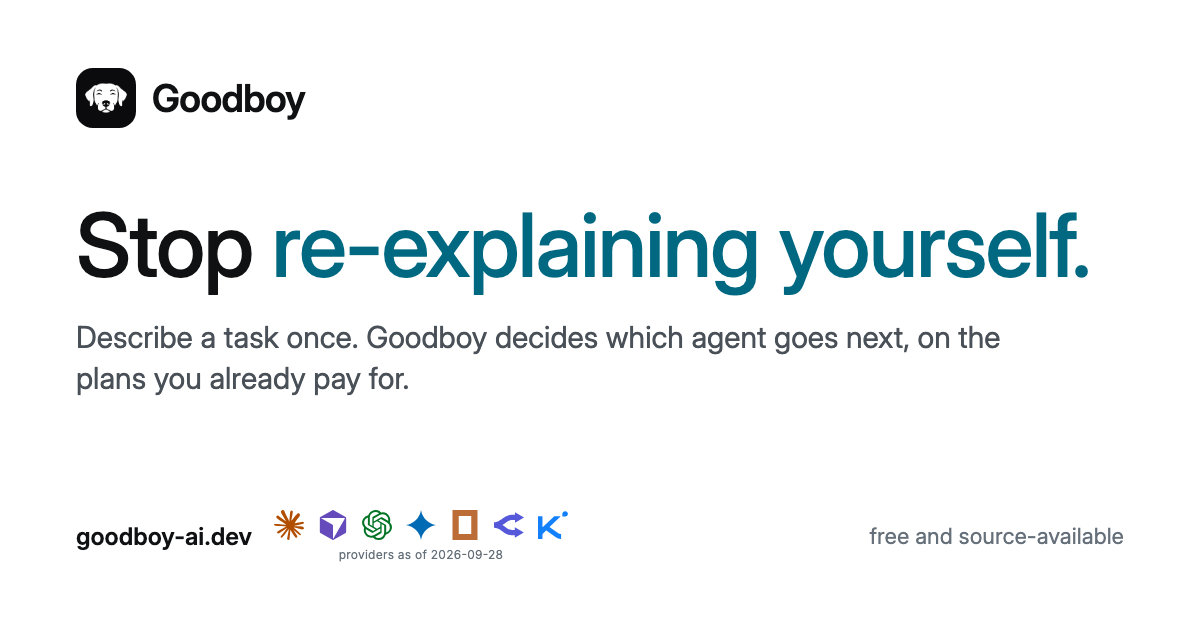
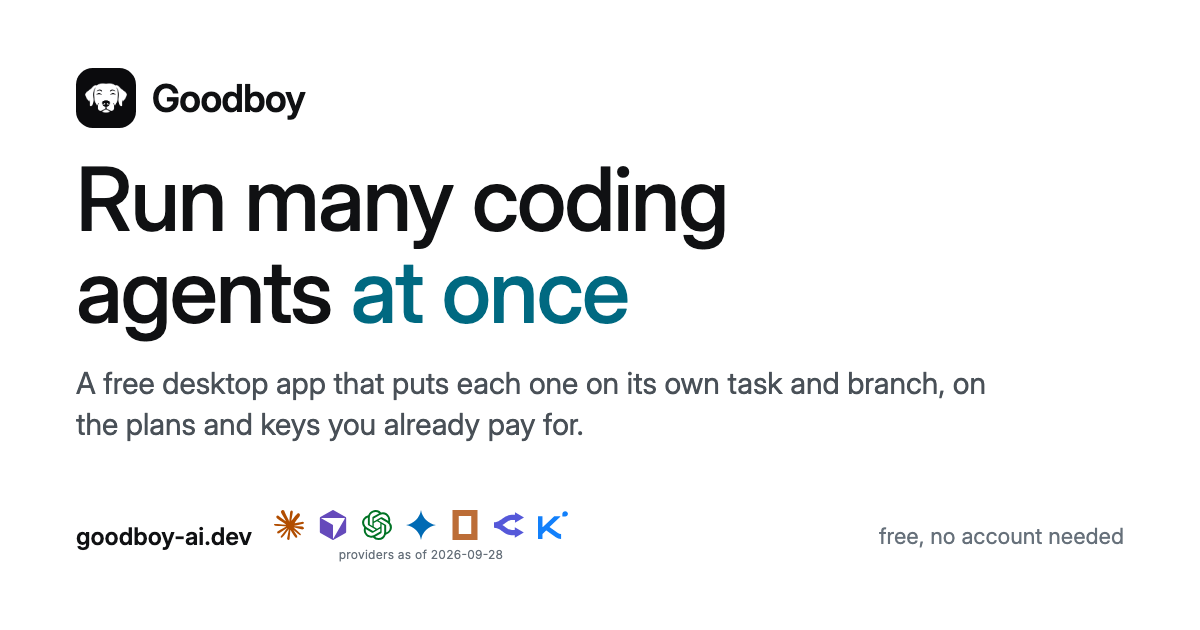
docs(repo): align the og image and docs with the new landing

Changed region(s): [[0.0617, 0.2413, 0.925, 0.6333], [0.0617, 0.6635, 0.4933, 0.6937], [0.7092, 0.8444, 0.9558, 0.8746]]

diff --git a/website/README.md b/website/README.md
@@ -18,47 +18,42 @@ deployed by Vercel from `website/vercel.json`.
 
 ## Pages
 
-- `/`, the landing page, from `website/index.html` and `website/src/App.tsx`.
+- `/`, the landing page, from `website/index.html` and `website/src/App.tsx`:
+  the hero with the Works with row, three sections (jobs and models, what
+  needs you, Stop re-explaining yourself), Also in Goodboy, Install and the
+  footer. Its title, meta description and Open Graph text follow the hero,
+  and so does the OG image in `website/scripts/build-brand-assets.mjs`.
 - `/features`, every feature group with the release picker and the supported
   tools, from `website/features.html` and `website/src/pages/features/`. Vite
   builds both as inputs, `vercel.json` serves them without `.html`, and the
   dev and preview servers rewrite `/features` the same way.
 
-## FAQ and structured data
+## Structured data
 
-The questions in `website/src/data/faqs.ts` are mirrored by hand into the
-`FAQPage` JSON-LD block in `website/index.html`. Change both in the same
-commit: nothing checks that they agree, and search engines read the JSON-LD,
-not the section.
+`website/index.html` carries one `SoftwareApplication` JSON-LD block. Its
+description matches the meta description; change both in the same commit. The
+page has no FAQ section, so it carries no `FAQPage` block: search engines
+expect every answer in it to be visible on the page.
 
-## Figures
+## Product pictures
 
-Product figures are real app screenshots from the mock scenes (see
-[docs/mock-screenshots.md](../docs/mock-screenshots.md), Landing crops),
-captured at a device scale factor of 4 or more, in both app themes. They live
-in `website/public/img/` as WebP, each at three widths and never upscaled.
-The widths are exactly 1, 2 and 3 times the size the image is drawn at, so a
-screen at 1x, 2x or 3x shows the file pixel for pixel and the browser never
-resamples it:
+The product pictures are HTML, not screenshots, so they stay sharp at any
+density and re-lay out on a phone instead of being cropped. Each one lives in
+`website/src/components/mocks/` (`Board`, `RunList`, `Activity`, `Handoff`),
+takes its words and numbers from `website/src/data/harborline.ts`, and sits
+on a `Stage`. Their rules:
 
-- `<id>-<width>.webp` in the dark theme and `<id>-<width>-light.webp` in the
-  light one.
-- A frame is drawn 1144 CSS pixels wide at 1440, inside its stage, so its
-  files are 1144, 2288 and 3432 wide. A 1024 pixel app window lands at 1.12
-  times its size; the board keeps a 1250 pixel window so its four columns fit,
-  and draws at 0.92.
-- A frame has a `<id>-phone` twin, a 4:5 cut of 288 by 360 app pixels that a
-  390 phone draws 366 wide, at 1.27 times the app, instead of the whole
-  window shrunk. Its files are 732, 1098 and 1464 wide.
-- A fragment is one component, drawn at its `displayWidth`, at least 1.18
-  times its size in the app, with files at 1, 2 and 3 times that width. App
-  text never draws below its size in the app.
+- Rows are grids with `minmax(0, 1fr)` for the title. A title never wraps; it
+  ends in an ellipsis. Below 520 px of container width each row turns into two
+  clean lines, never a word per line. The breakpoints are container queries,
+  so they hold inside any stage.
+- On a phone every visible text is 13 px or larger; on a desktop 12 px is the
+  floor, for chips and eyebrows only.
+- The window is a hairline box on the page background, with no shadow.
 
-`website/src/figures.ts` holds each figure's id, pixel size, display width and
-alt text. `Picture` loads only the active theme and lets the browser pick the
-width through `srcset`, and `pnpm check:page` fails when any image draws below
-twice its displayed size. When a scene changes, reshoot every width and both
-themes of its figures in one pass.
+The site keeps no raster product images. A raster image added later is
+exported at exactly 1, 2 and 3 times the width it is drawn at, and checked at
+100%.
 
 ## Theme
 
@@ -101,65 +96,96 @@ loads twice.
 
 ## Page kit
 
-The page is built from five formats in `website/src/components/`, each with
-its own CSS file:
+- `Beat`, a section with a muted lead-in (optional, always smaller than the
+  heading: 20 against 44 px, 17 against 30 on a phone), an h2, one body
+  paragraph, `.textLink` links to `FEATURES.md` anchors, optional fine print,
+  then one picture on a `Stage`. `isBand` puts it on `--band` with a hairline
+  above and below; the first and third sections are banded.
+- `Stage`, the colored stage behind a picture: the flat 160 degree gradient,
+  radius 28, 48 px around the picture (32 below 1100 px, 20 below 860, 12 on a
+  phone). No sheen, glow or shadow.
+- Also in Goodboy, one row per feature that the page does not tell, each a
+  link to its `FEATURES.md` section, in two columns (one below 760 px). A new
+  feature gets at most a row here; `FEATURES.md` explains it.
+- Install, with the Homebrew command, the downloads and three facts. It takes
+  the place of a FAQ, a support block and a closer.
 
-- `Chapter`, a section with a `Statement` head, then its blocks 96 px apart
-  (64 on a phone). `isBand` puts it on `--band` with a hairline above and
-  below; How it works, Workflows, Questions and the closer are banded, the
-  chapters between them are not.
-- `Statement`, an eyebrow, a heading and a lead of 20 words or fewer. The
-  hero and the closer use it too. No h1, h2 or h3 ends with a period.
-- `Frame`, one full product view on a stage: 64 px of stage around the view
-  (40 below 1100 px), radius 28, the view capped at 600 px (640 in the hero)
-  and faded out over 140 px. Below 860 px the stage runs edge to edge with 12
-  px around the view, and a phone shows a 4:5 crop of its own. `isCanvas`
-  fades the view's top and bottom into the stage and adds a soft neutral
-  shadow above and below it: the one shadow on the page, used only for the
-  workflow step graph and marked `data-shadow-exception` for the check.
-- `Fragment`, a split of text beside one or two components on a smaller
-  stage (radius 20), the component bleeding off its right and bottom edge
-  where the screen continues. It stacks below 900 px.
-- `Grid`, two or three cells, each a stage with a component bleeding off it,
-  then a title and one line. No box around the cells.
+No h1, h2 or h3 ends with a period.
 
-Motion: the hero rises in on load. Below it, every frame, fragment, grid
-image and frame note fades and rises 14 px as it scrolls into view
-(`useReveal`, which marks `[data-reveal]` nodes shown), and the cost bars grow
-from zero when their pair appears. The provider marks in the Works with row are in their
-brand colours (Claude orange, OpenRouter slate, the Gemini gradient from its
-2025 mark, Codex the OpenAI green, Cursor its orange, OpenCode and Moonshot
-their own accent blues, each hex sourced and recorded in
-`brandIcons.source.json`), with the names in tier 3. They scroll as a marquee
-on a phone and sit still on wider screens. `prefers-reduced-motion` turns all
-of it off.
+## Phones
 
-`Picture` serves every image as a `srcset` of its three widths, so a browser
-downloads only what its screen needs.
+A touch device is told by its pointer, not by its width:
+`@media (hover: none) and (pointer: coarse)`, as the site did before 0.1.75. A
+narrow desktop window keeps its downloads, a tablet with a trackpad reports a
+fine pointer and sees them too. `.onlyFine` hides an element on a touch device
+and `.onlyCoarse` shows it only there, both in `website/src/styles.css`, so
+the right buttons show on the first paint without JavaScript.
+
+- A touch device sees no download button, no Homebrew command and no Download
+  in the nav. The hero and Install show a "Star on GitHub" button instead, a
+  static link with no live count, next to a line that says to open the page on
+  a computer.
+- Every download link and the Homebrew block carry `data-download`, and the
+  star button `data-star`, so `check-page` can find them.
+- The footer stacks on a phone: the brand on its 40 px dark tile, then the link
+  groups in two columns, each link a 44 px row at 16 px.
+
+## Motion
+
+- Below the hero, every lead-in, heading, body, picture, row and fact fades
+  and rises 12 px over 450 ms as it scrolls into view, 60 ms apart within a
+  block (`useReveal`, which marks `[data-reveal]` nodes shown). Content stays
+  visible until the observer is armed.
+- The hero copy rises in on load; the hero picture is there on the first
+  paint.
+- Each picture plays one calm change once, when 40% of it is in view
+  (`useAlive`): a task moves to Needs you, a run finishes step by step while
+  its total counts up, an agent stops to ask, a turn moves from Claude to Codex
+  with the same brief. Transitions run 200 to 450 ms and move 12 px at most.
+  Nothing loops, scales, glows or blurs.
+- The provider marks in the Works with row are in their brand colours (Claude
+  orange, OpenRouter slate, the Gemini gradient from its 2025 mark, Codex the
+  OpenAI green, Cursor its orange, OpenCode and Moonshot their own accent
+  blues, each hex sourced and recorded in `brandIcons.source.json`), with the
+  names in tier 3. They scroll as a marquee on a phone and sit still on wider
+  screens.
+- `prefers-reduced-motion` turns all of it off: every picture shows its final
+  state and nothing fades.
 
 ## Check the page
 
 `pnpm check:page [url...]` drives headless Chrome over a running page (default
 `http://localhost:1499/`) at 1440, 1024, 768, 660 and 390 pixels wide, in
-both themes, at twice the pixel density. It fails on horizontal overflow, an
-image drawn below 2x, a frame, fragment or grid with a shadow (outside
-`data-shadow-exception`), a page taller
-than 13,500 px at 1440 or 14,000 on a phone, an em dash or a middot triplet in
-visible text, a heading that ends with a period, a section that runs into the
-next one or whose content spills below it, Inter not loaded, a hero frame that
-starts below the first screen at 1440, and a consent card over the h1, and an
-eyebrow outside the one register: a feature
-eyebrow (`kind="group"`, the default) must be a `FEATURES.md` group name
-verbatim, an audience eyebrow a `README.md` section, and the few page eyebrows
-(hero, Questions, Install, All features) are listed in the script. The heading
-rule itself lives in [docs/tone-of-voice.md](../docs/tone-of-voice.md). `--shots <dir>` also saves every heading, and
-`--verify-icons` compares the provider mark paths with their pinned
-simple-icons files over the network; the fill is free, since the marks
-carry brand colours. It also fails a `.textLink` (a "learn more" or "How X
-works" link), a nav link or a footer Docs-column link that points anywhere in
-the repo's docs other than `FEATURES.md`, or whose anchor is not a heading in
-the current `FEATURES.md`; the GitHub repo, releases, changelog, security and
-legal links are unaffected. Tag Manager is blocked during the run.
+both themes, at twice the pixel density, with reduced motion on so every
+picture shows its final state. The 390 run emulates touch, so it gets a coarse
+pointer. It fails on:
+
+- horizontal overflow, an image drawn below 2x, or a shadow on a stage or
+  anything inside it;
+- a home page taller than 5,500 px at 1440 or 7,500 on a phone;
+- an em dash or a middot triplet in visible text, or a heading that ends with
+  a period;
+- a section that runs into the next one or whose content spills below it;
+- Inter not loaded, a hero stage that starts below the first screen at 1440,
+  or a consent card over the h1;
+- on the touch run, a visible download link or Homebrew block, no Star on
+  GitHub button, or any visible text under 13 px; on the other runs, a visible
+  star button or no download link;
+- a lead-in that is not smaller than its heading;
+- an eyebrow outside the one register: a feature eyebrow (`kind="group"`, the
+  default) must be a `FEATURES.md` group name verbatim, an audience eyebrow a
+  `README.md` section, and the few page eyebrows (hero, Install, All
+  features) are listed in the script;
+- a `.textLink`, a nav link or an Also in Goodboy row that points anywhere in
+  the repo's docs other than `FEATURES.md`, or whose anchor is not a heading
+  in the current `FEATURES.md`. The GitHub repo, releases, changelog, security
+  and legal links are unaffected.
+
+The heading rule itself lives in
+[docs/tone-of-voice.md](../docs/tone-of-voice.md). `--shots <dir>` also saves
+every heading, and `--verify-icons` compares the provider mark paths with
+their pinned simple-icons files over the network; the fill is free, since the
+marks carry brand colours. Tag Manager is blocked during the run.
 
 ## One invented world
 
@@ -172,5 +198,7 @@ HBL-412 "Stop retried webhooks posting a second credit" on branch
 `notify-relay` #57, while `ledger-core` is only read; $3.47 spent so far; the
 people Dana R., Kenji W., Marta L. and Omar T. A repo the story only reads has
 no branch or pull request in any figure, and any number in the copy matches the
-figure next to it. Nothing on the page names a real person, customer or
+figure next to it. The site's pictures take their words and numbers from
+`website/src/data/harborline.ts`; the run total, $3.07 against $9.80 on one
+heavy model, is labelled an example run. Nothing on the page names a real person, customer or
 repository. When the canon changes, it changes everywhere in one pass.

diff --git a/docs/mock-screenshots.md b/docs/mock-screenshots.md
@@ -214,52 +214,10 @@ branch `hl/fix-duplicate-credit`, payments-api #318 and notify-relay #57, with
 ledger-core only read), and `scenes/brand/canon.ts` holds the names and numbers
 every picture shares. Add `&brand=1` to skip onboarding and hide the toasts a
 browser tab raises. The README and `FEATURES.md` images live in `docs/readme/`
-as dark and light `.webp` pairs, and the website's in `website/public/img/`. To
-crop a short surface, use a `--window-size` height shorter than 900. The layout
+as dark and light `.webp` pairs. The website draws its product pictures in
+HTML instead (see [website/README.md](../website/README.md)). To crop a short
+surface, use a `--window-size` height shorter than 900. The layout
 keeps its own proportions and the footer stays pinned.
-
-## Landing crops
-
-The website shows three kinds of picture, and each one is cut a different
-way. Every one exists in both themes, and each file is exported at the widths
-its entry in `website/src/figures.ts` lists, as `<id>-<width>.webp` for dark
-and `<id>-<width>-light.webp` for light, so `<picture>` can pick one from
-`srcset`. A frame uses `FRAME_WIDTHS`, a phone crop `PHONE_WIDTHS`, and a
-fragment one, two and three times its recorded display width.
-
-- **A frame** is the whole window. Capture it at `1024x640`, the app's minimum
-  width, at device scale factor 4. That gives 4096x2560, which exports down to
-  every width. A frame never uses a window narrower than 1024: below it the
-  sidebar and the top bar show a layout no user can get. A wide frame (the
-  board at 2.4:1) uses a wider window, such as `1280x533`, instead of a
-  shorter crop.
-- **A fragment** is one component, clipped to its box plus 24 px where the
-  screen continues. Where the component ends in its own border (a popover, a
-  palette), keep 8 px on that side, because the screen behind it is noise.
-  Clip through CDP `Page.captureScreenshot` with `clip.scale`, so the clip
-  renders at 4 times that scale. Pick the scale so the clip reaches three
-  times its display width: a 400 px popover shown at 780 needs 2340 px, so
-  scale 1.5, which is 6x. Chrome lays the text out
-  again at that size, so it stays sharp. Never enlarge a smaller capture.
-- **A phone crop** is a 4:5 cut of the same window a frame uses. Do not narrow
-  the window to make the content fit: the rows truncate their branch names and
-  titles. Cut the part that reads on its own (the title and projects, the role
-  rows, one board column), and leave the right edge open where a row runs on.
-  A crop that needs more rows uses a taller window, such as `1024x1100`.
-
-The smallest text inside a fragment is 10 css px in the app. The site keeps
-fragment text at 13 css px or larger, so it draws a fragment at 1.3 times its
-clip width or wider. Record that width with each fragment. Measure it from the
-text nodes that intersect the clip, not by eye.
-
-A wireframe or a report inside a fragment needs
-`--disable-site-isolation-trials` (see above), or the frame renders at 1x
-while the rest of the clip is sharp. A wireframe keeps its own palette in both
-app themes, so its light file can match its dark one.
-
-Look at every file at 100% before you keep it, in both themes, at the smallest
-and the largest width. Check the edges too: a clip that cuts a heading in half,
-or catches the top of a button below, needs a new box.
 
 ## Pictures for the changelog
 

diff --git a/docs/release-command.md b/docs/release-command.md
@@ -50,12 +50,11 @@ Below, `X` is the new version and `X-1` is the current latest.
      true and add what is new. Edit them in place, never rewrite them from
      scratch.
    - Every user-facing feature the release adds or changes gets its website
-     section updated in the same PR, text and figure, or a new section when
-     none tells it yet. Re-shoot every figure the change made stale, in
-     `website/public/img/` and `docs/readme/`, from the mock scenes as
-     [mock-screenshots.md](mock-screenshots.md) describes, at a scale of 4 or
-     more, at every width, in both themes, with the phone crop of a frame. A
-     release that only fixes bugs changes no figure.
+     section or its Also in Goodboy row updated in the same PR, text and HTML
+     picture. Re-shoot every figure the change made stale in `docs/readme/`,
+     from the mock scenes as [mock-screenshots.md](mock-screenshots.md)
+     describes, at a scale of 4 or more, in both themes. A release that only
+     fixes bugs changes no figure.
    - Run `node scripts/snapshot-features.mjs X`. It reads `FEATURES.md` and the
      `## Goodboy vX` entry in `CHANGELOG.md`, and writes one JSON file named
      after the version into `website/src/data/releases/`: the feature map the

diff --git a/README.md b/README.md
@@ -2,7 +2,7 @@
 
 <picture>
   <source media="(prefers-color-scheme: dark)" srcset="./docs/readme/readme-hero-dark.webp">
-  <img src="./docs/readme/readme-hero-light.webp" alt="Goodboy, a development environment that structures agent work: the overview of a Harborline session with its tasks by stage, its projects and its pull requests" width="880">
+  <img src="./docs/readme/readme-hero-light.webp" alt="Goodboy runs many coding agents at once: the overview of a Harborline session with its tasks by stage, its projects and its pull requests" width="880">
 </picture>
 
 [![ci](https://img.shields.io/github/actions/workflow/status/akhayam99/goodboy/ci.yml?branch=main&style=for-the-badge&logo=githubactions&logoColor=white&label=ci&labelColor=15181b)](https://github.com/akhayam99/goodboy/actions/workflows/ci.yml)

diff --git a/FEATURES.md b/FEATURES.md
@@ -1,6 +1,6 @@
 # Goodboy features
 
-The full feature guide, in the same order as [goodboy-ai.dev](https://goodboy-ai.dev): set up, start a task, move between tasks, ship the code, then keep an eye on cost and disk. Each entry says what it does for you, and sometimes how.
+The full feature guide, in the order a task lives: set up, start a task, move between tasks, ship the code, then keep an eye on cost and disk. Each entry says what it does for you, and sometimes how. [goodboy-ai.dev](https://goodboy-ai.dev) shows the core in a minute and links here for the rest.
 
 - [Set up](#set-up)
 - [Start a task](#start-a-task)
